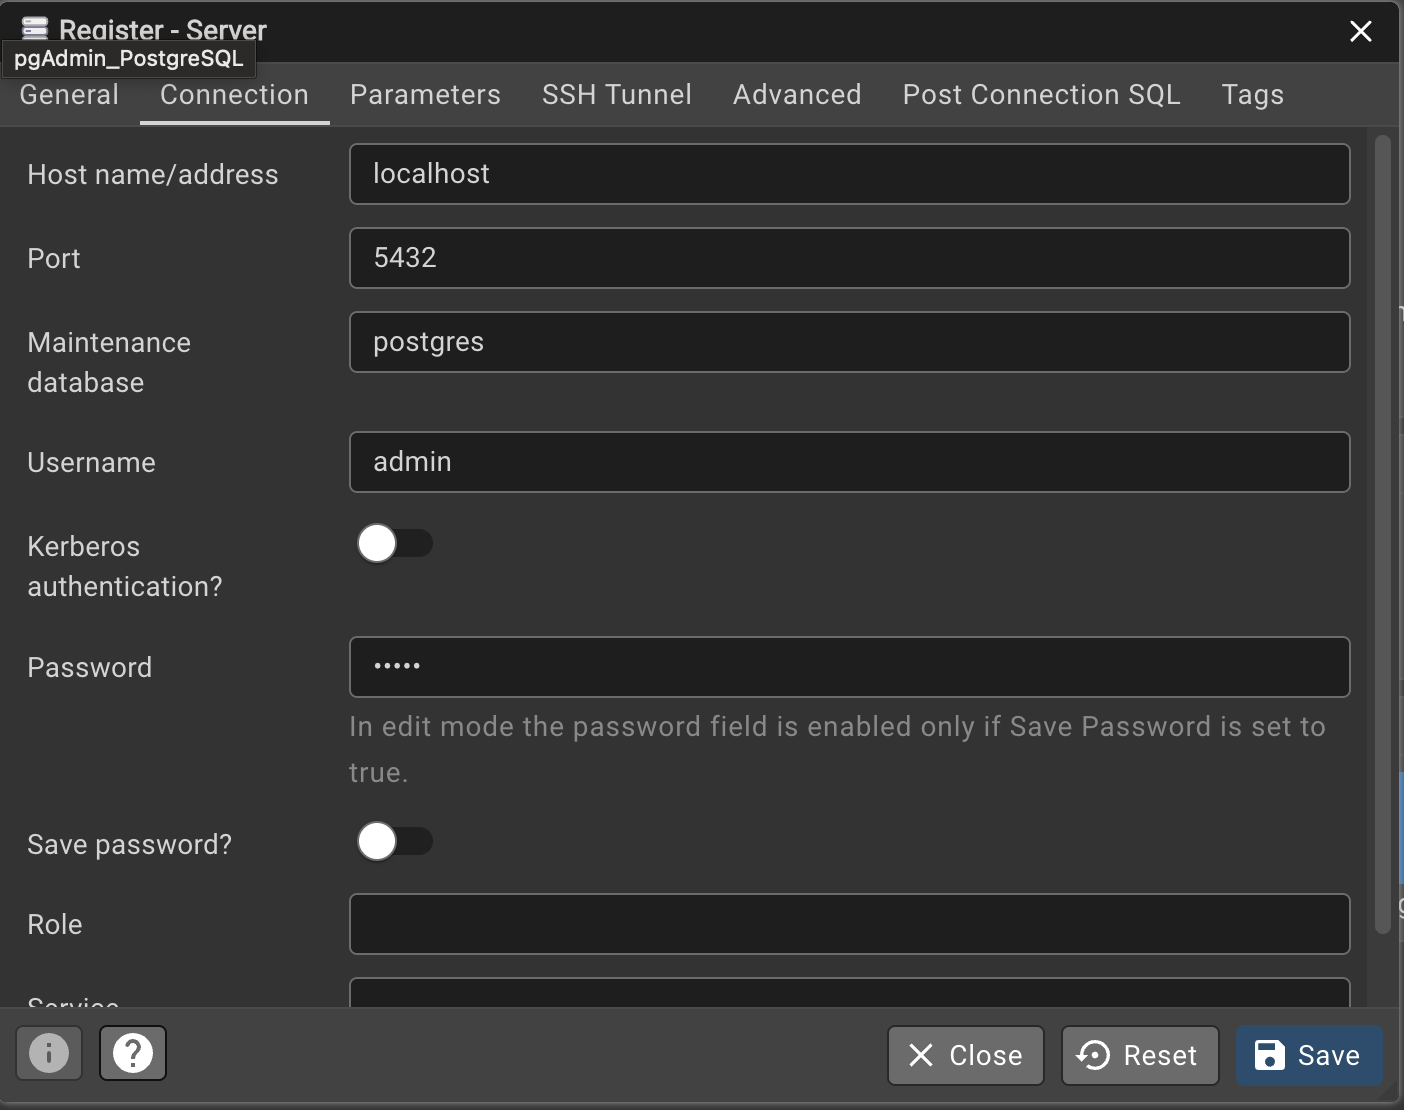
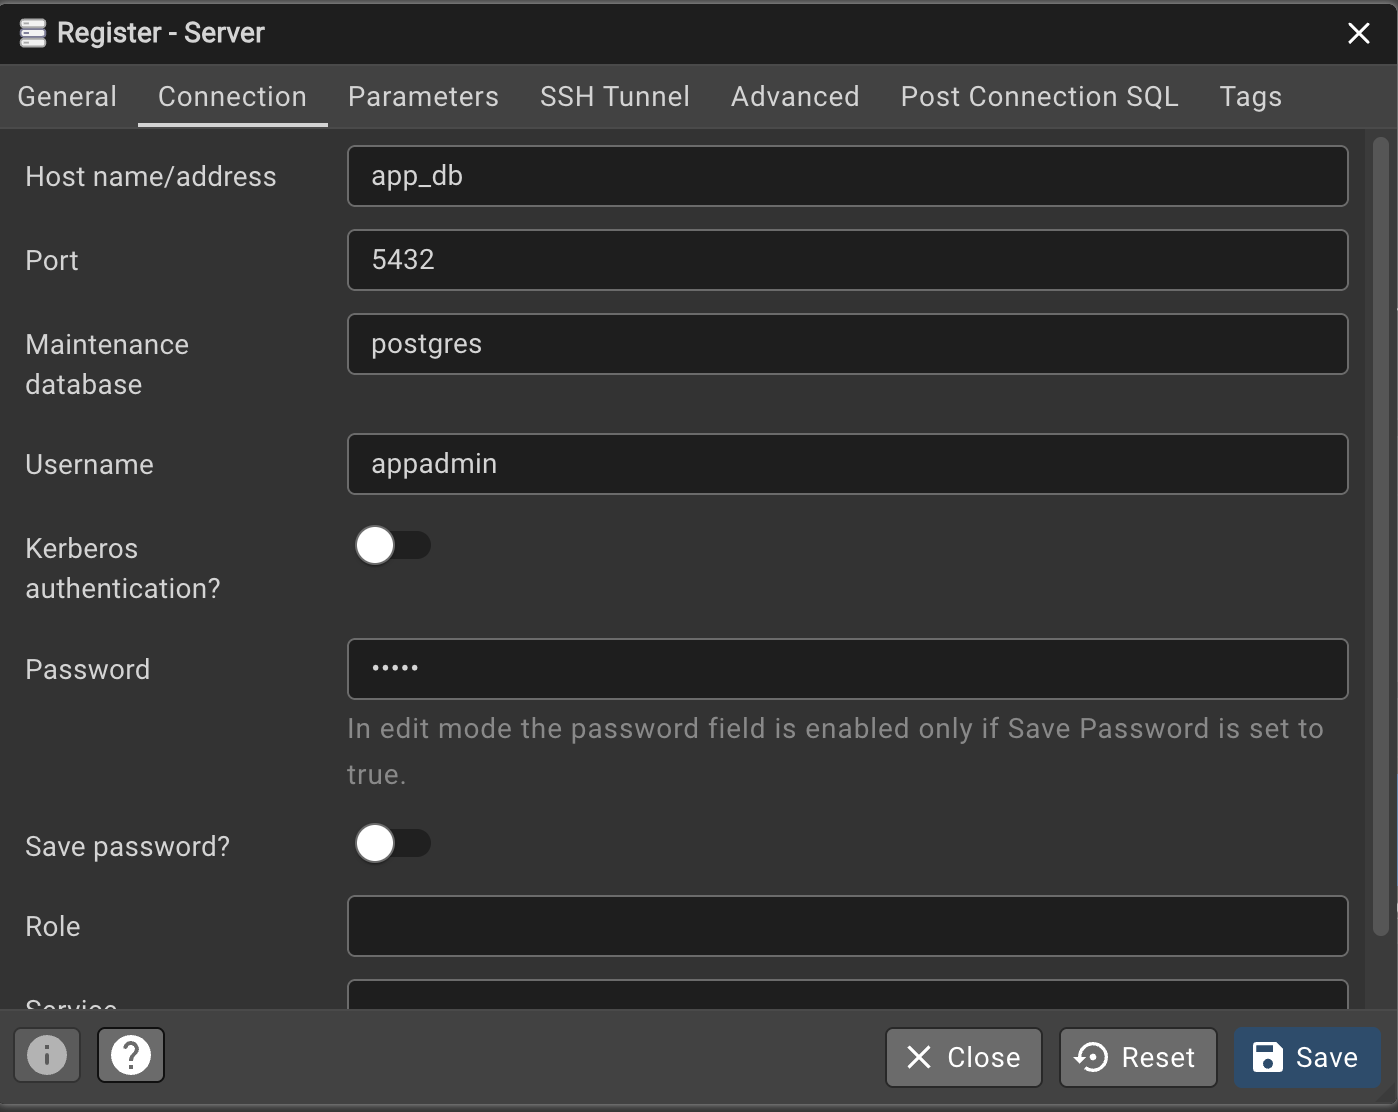
fix: clearify docker compose path

diff --git a/docker/README.md b/docker/README.md
@@ -23,6 +23,8 @@ Quick overview for you who hasn't worked with docker before
 - `docker logs app_db` // postgres logs (if container is running)
 - `docker logs app_pgadmin` // pgadmin logs (if container is running)
 
+> Note, the commands containing "compose" only works if you're in `/docker` so the `compose.dev.yml` file is in your current directory.
+
 ## Access
 
 - The database is exposed on 0.0.0.0:5432 (localhost:5432)
@@ -33,7 +35,7 @@ You can connect to the database directly from CLI or with a programming language
 Here are the credentials:
 
 ```DB creds
-Username:   admin
+Username:   appadmin
 Password:   admin
 ```
 
@@ -51,7 +53,7 @@ Password:   admin
 
 - After you sign in, you can connect to the db by clicking `Add new server`
 - Go to `Connection` tab, and fill in exactly like this:
- 
+
 <img src='pgadmin_login_instructions.png'>
 
 <a href="https://www.youtube.com/watch?v=Gjnup-PuquQ">Docker in 100 seconds </a> if u wanna learn more :)
